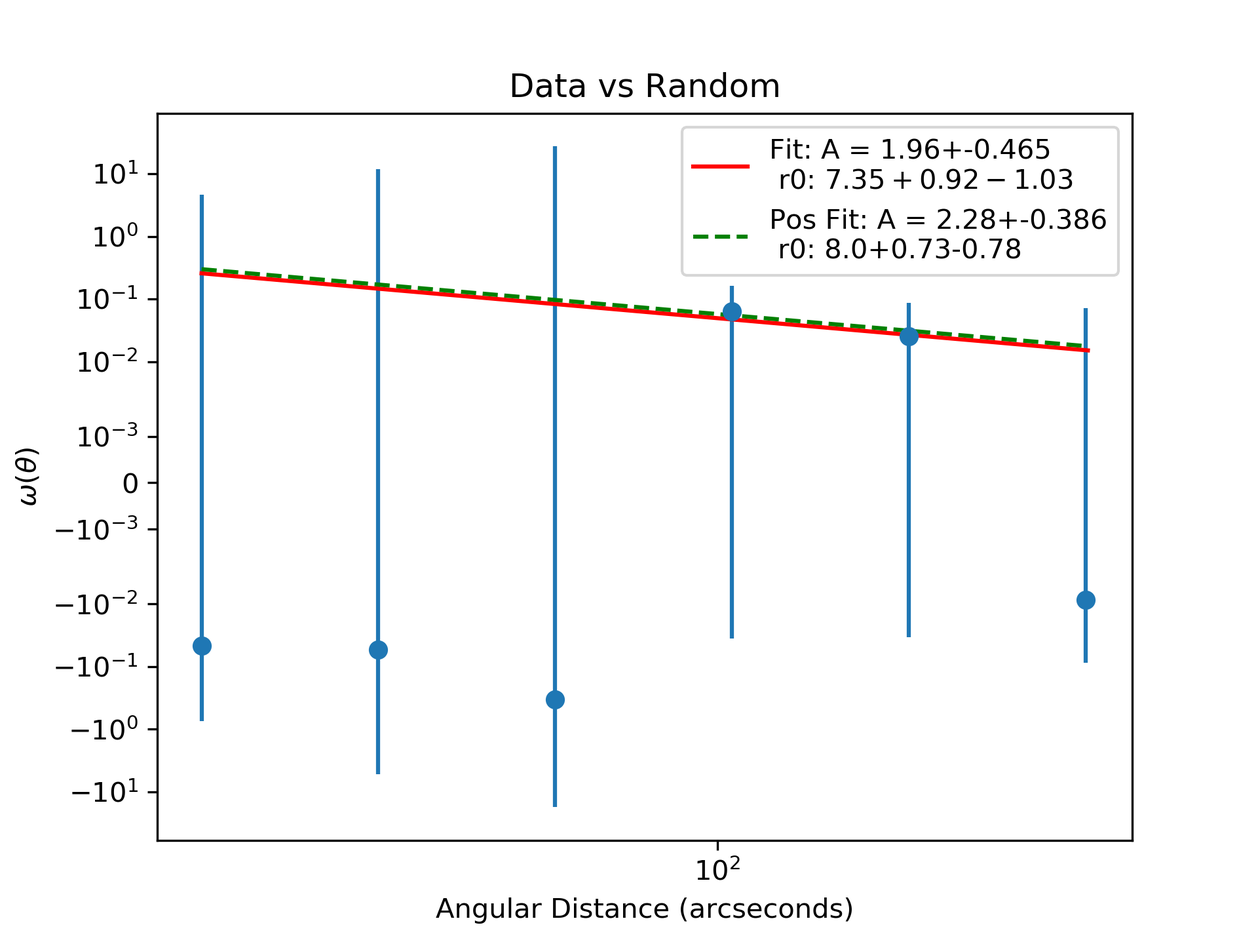
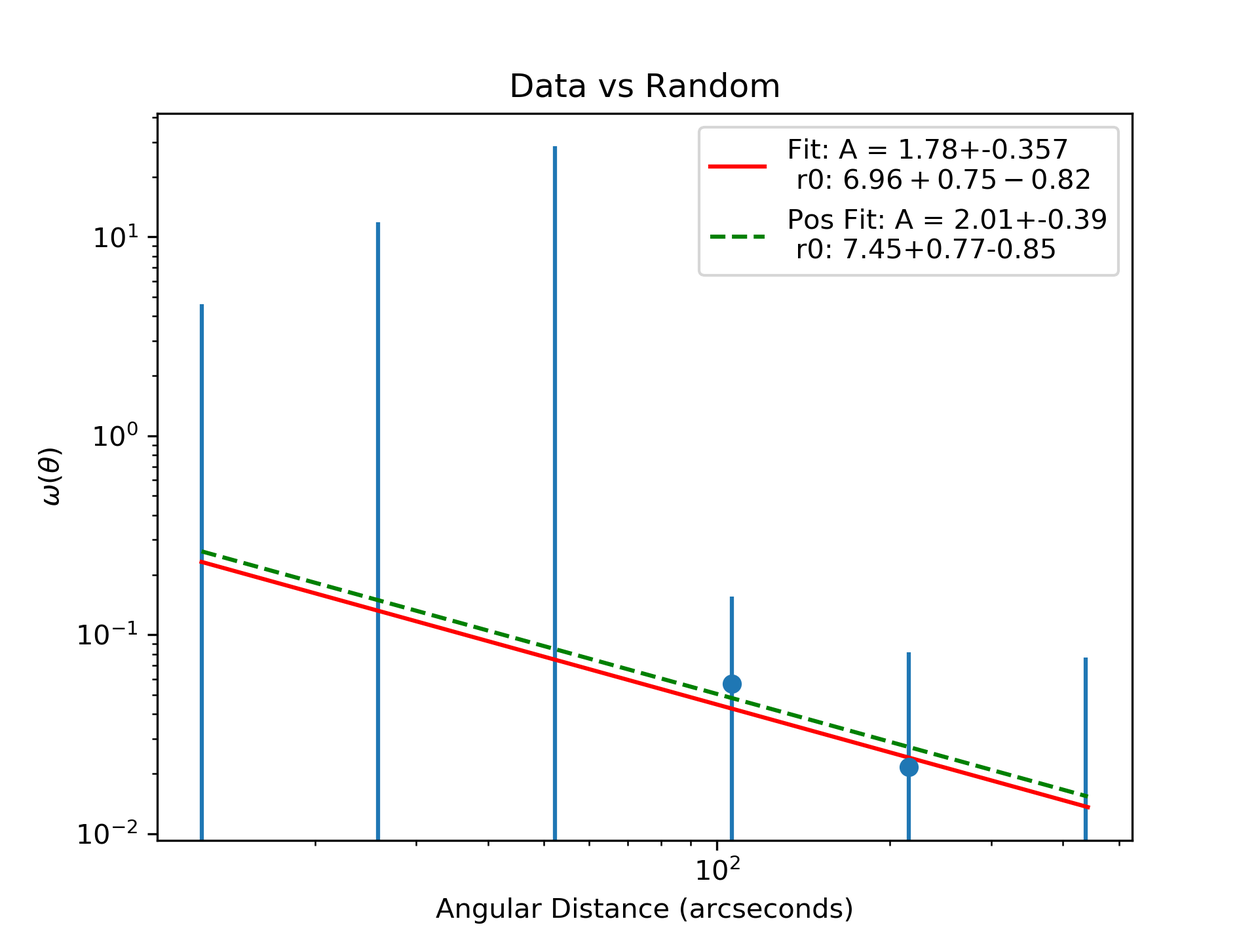
Final Draft Version 1
Actually complete parts, etc. Need to redo the CO line maps, but need to have the desktop finish downloading for now.

diff --git a/clustering.tex b/clustering.tex
@@ -2,9 +2,9 @@
 
 Galaxies are not distributed randomly in the universe. On the largest scales, the universe is isotropic and homogeneous, but on smaller scales, galaxies tend to cluster in space. One way to quantify how densely packed a population of galaxies is to compute the so-called two-point correlation function. This allows for the measuring of the mass of the dark matter halos in which these galaxies reside \cite{hickox2011clustering}. For a certain redshift, the more clustered a population of galaxies is, the more massive the halo that they are in.
 
-The clustering of different populations of galaxies has been constrained by previous works, which some are summarized in Fig. \ref{fig:Hickox_compare}, where the correlation length parameter, r0, which is a proxy for the amplitude of the clustering, is shown as a function of redshift for different populations. For example, \cite{hickox2011clustering} looked at the clustering of unobscured quasars and obscured quasars. \cite{10.1111/j.1365-2966.2011.20303.x} looks at the clustering in SMGs and compares their clustering to clustering found for other sets of astronomical objects, as can be seen in Fig. \ref{fig:Hickox_compare}. \cite{hickox2011clustering} found, in the Bo\"otes field, an $r_0$ for unobscured quasars to be $5.6 \pm 0.8$ at 0$<$z$<$1, and for obscured quasars $6.0 \pm 1.0 $. In \cite{10.1111/j.1365-2966.2011.20303.x}, SMGs in the Extended Chandra Deep Field South were found to have a $r_0$ of $7.7_{-2.3}^{+1.8}$.
+The clustering of different populations of galaxies has been constrained by previous works, which some are summarized in Fig. \ref{fig:Hickox_compare}, where the correlation length parameter, $r_0$, which is a proxy for the amplitude of the clustering, is shown as a function of redshift for different populations. For example, \cite{hickox2011clustering} looked at the clustering of unobscured quasars and obscured quasars. \cite{10.1111/j.1365-2966.2011.20303.x} looks at the clustering in SMGs and compares their clustering to clustering found for other sets of astronomical objects, as can be seen in Fig. \ref{fig:Hickox_compare}. \cite{hickox2011clustering} found, in the Bo\"otes field, an $r_0$ for unobscured quasars to be $5.6 \pm 0.8$ at 0$<$z$<$1, and for obscured quasars $6.0 \pm 1.0 $. In \cite{10.1111/j.1365-2966.2011.20303.x}, submillimeter galaxies (SMGs) in the Extended Chandra Deep Field South were found to have a $r_0$ of $7.7_{-2.3}^{+1.8}$ at a 1$<$z$<$3. Other sources, such as \cite{adelberger2005spatial}, found for Lyman Break Galaxies (LBGs) $r_0$ values of $4.5 \pm 0.6$ at $z = 1.7$, $4.2 \pm 0.5$ at $z = 2.2$, and $4.0 \pm 0.6$ at $z = 2.9$, while \cite{ross2009clustering} found, for quasars in the Sload Digital Sky Survey, an $r_0 = 5.45_{-0.45}^{+0.35}$ for z$\leq$2.2, both shown in Fig. \ref{fig:Hickox_compare}. 
 
-\begin{figure}[!htb]
+\begin{figure}[!htbp]
 \centering \includegraphics[width=87mm]{clustering/Hickox2012_Compare.png}
 \caption{$r_0$ values for a variety of celestial objects as a function of redshift. The grey dotted lines show the evolution of $r_0$ for dark matter haloes of different masses. Figure adapted from \cite{10.1111/j.1365-2966.2011.20303.x}.}
 \label{fig:Hickox_compare}
@@ -24,7 +24,7 @@ The clustering is computed through a two point correlation function. The two-poi
 In order to check our code for the clustering computation, we created 2 additional random catalogs, of 20000 points each, and their angular correlation computed to show that it is consistent with zero, shown in Fig.\ref{fig:random_points}. The error bars for $\omega(\theta)$ are computed using possion errors for small statistics \cite{1986ApJ...303..336G}.
 
 \begin{figure}[!htbp]
-\centering \includegraphics[width=100mm]{clustering/Random_vs_Random_2000_bin9.png}
+\centering \includegraphics[width=100mm]{clustering/5Random_vs_Random_10000_bin9.png}
 \caption{Angular correlation two sets of random points used in this analysis, showing that the angular correlation is consistent with zero, as would be expected for cross-correlating two sets of uniformly distributed points. The red line shows $\omega(\theta) = 0$.}
 \label{fig:random_points}
 \end{figure}
@@ -36,14 +36,6 @@ In order to check our code for the clustering computation, we created 2 addition
 \centering \includegraphics[width=120mm]{PDFS/NX_V_Y_Sources_20000.png}
 \caption{Random points, in grey, and sources, in blue, from the $>$ 0.6 fidelity cut. The random points are distributed uniformly throughout the Wide ASPECS footprint.}
 \label{fig:Clustering_points}
-\end{figure}
-
-\begin{figure}[!htbp]
-% explain how bins can be negative and what this means for fitting only positive bins
-% Bins can be negative through.... 0, so not negative I guess? 
-\centering \includegraphics[width=90mm]{clustering_two/Data_vs_Random_10000_bin6_sn0_6_NFalse.png}
-\caption{Angular correlation function for 6 bins for the chosen fidelity cut of 0.6. Red is the fit $\omega(\theta) = A\theta^{-0.8}$ to all the bins, while the green line is the fit to only the positive bins. This is the final binning used for the analysis. }
-\label{fig:Angular_binnings}
 \end{figure}
 
 %4. Then put what you wrote: Once the angular correlation function is found...angular correlations [7].
@@ -62,49 +54,56 @@ $$ \gamma = \beta + 1 $$ and $$ A = H_{\gamma}\frac{\int_{0}^{\inf} (dN_1/dz)(dN
 where $H_{\gamma} = \Gamma(0.5)\Gamma(0.5[\gamma -1])\Gamma(0.5\gamma)$, with $\Gamma$ being the gamma function, $\chi$ the radial comoving distance, $dN_{1,2}/dz$ are the redshift distributions of the samples, where in the case of autocorrelation are equal to each other, and $E_z = H_z/c = dz/d\chi$ \cite{hickox2011clustering}. The Hubble parameter $H_z$ can be found from
 $$H_z^2 = H_0^2[\Omega_m(1+z)^3 + \Omega_{\lambda}]$$ \cite{hickox2011clustering}.
 
-For this analysis, the redshift distribution was taken from the CO redshifts of the lines, and the calculations were performed over the range z = 1.5 to 3.5, as this is the range where most of the CO candidates seem to lie. To calculate $dN_{1,2}/dz$, the redshift distribution of the CO lines was fitted with a Gaussian, and the integral was taken over the Gaussian fit. The angular correlation function was computed over the range of 8.39 to 582.10 arcseconds, using logarithmically spaced bins. Because there are only 35 line candidates in the catalog, the clustering measurements are quite noisy. The final calculated values are $r_0 = 7.22_{-0.9}^{+0.83}$, and $\gamma = 1.8$. 
+For this analysis, the redshift distribution was taken from the CO redshifts of the lines, and the calculations were performed over the range z = 1.5 to 3.5, as this is the range where most of the CO candidates seem to lie. To calculate $dN_{1,2}/dz$, the redshift distribution of the CO lines was fitted with a Gaussian, and the integral was taken over the Gaussian fit. The angular correlation function was computed over the range of 8.39 to 582.10 arcseconds, using logarithmically spaced bins. Because there are only 35 line candidates in the catalog, the clustering measurements are quite noisy. The final calculated values are $r_0 = 6.96_{-0.82}^{+0.75}$, and $\gamma = 1.8$. 
 
-\begin{figure}[!tbp]
+\begin{figure}[!htbp]
 % explain how bins can be negative and what this means for fitting only positive bins
 % Bins can be negative through.... 0, so not negative I guess? 
-\centering \includegraphics[width=90mm]{clustering_two/Data_vs_Random_10000_bin6_sn0_6_NFalse.png}
-\caption{Angular correlation function for 6 bins for the chosen fidelity cut of 0.6. Red is the fit $\omega(\theta) = A\theta^{-0.8}$ to all the bins, while the green line is the fit to only the positive bins. This is the final binning used for the analysis. }
+\centering \includegraphics[width=90mm]{clustering_two/Data_vs_Random_20000_bin6_sn0_6_NFalse.png}
+\caption{Angular correlation function for 6 bins for the chosen fidelity cut of 0.6. Red is the fit $\omega(\theta) = A\theta^{-0.8}$ to all the bins, while the green line is the fit to only bins with positive values. This is the final binning used for the analysis. }
 \label{fig:Angular_binnings}
 \end{figure}
-
 %6. Then put a discussion section, and comment about if the r0 values that you got is higher or lower to other populations (as you can see in Fig. 3.1). Then say that you did the same procedure for other fidelity cuts to compare, and show your 4panel plot and comment about the fact that signal goes up with fidelity.
 
 \section{Discussion}
 
-In comparison to previous results, the $r_0$ of the CO emitters here are quite similar to the values for the SMGs found in \cite{10.1111/j.1365-2966.2011.20303.x}.
+In comparison to previous results, the $r_0$ of the CO emitters here are quite similar to the values for the SMGs found in \cite{10.1111/j.1365-2966.2011.20303.x}, and quasars in the Bo\"otes field \cite{hickox2011clustering}, while being slightly more clustered than the quasars found in \cite{ross2009clustering}. In comparison to other populations of celestial objects shown in Fig. \ref{fig:Hickox_compare}, the clustering for CO emitters seems to be stronger than for the Lyman Break Galaxies in \cite{adelberger2005spatial}, which covers the same redshift range of 1.5$<$z$<$3.5. This implies that the dark matter halos surrounding these CO emitters would be in the range very roughly between $10^{12} h^{-1}M_{\odot}$ and $10^{13} h^{-1}M_{\odot}$.
 
 % Add more about the effects of binning, negative/0 values 
 
-The two point correlation function was also computed for other fidelity cuts. As can be seen in Fig. \ref{fig:Angular_correlation}, as the fidelity increases, $A$ increases as well. When converted to $r_0$, the fidelity cuts result in $r_0$ values of $7.89_{-7.89}^{+5.83}$ for fidelity $>$ 0.7, $7.22_{-0.9}^{+0.83}$ for fidelity $>$ 0.6, $0.0_{-0.0}^{+4.03}$ for fidelity $>$ 0.5, and $r_0 = 0.0_{-0.0}^{+0.0}$ for fidelity $>$ 0.4, as the $A$ value is always negative. 
+The two point correlation function was also computed for other fidelity cuts. As can be seen in Fig. \ref{fig:Angular_correlation}, as the fidelity increases, $A$ increases as well. When converted to $r_0$, the fidelity cuts result in $r_0$ values of $7.8_{-7.8}^{+5.78}$ for fidelity $>$ 0.7, $6.96_{-0.82}^{+0.74}$ for fidelity $>$ 0.6, $0.0_{-0.0}^{+4.32}$ for fidelity $>$ 0.5, and $r_0 = 0.0_{-0.0}^{+3.83}$ for fidelity $>$ 0.4. This increasing $r_0$ as the fidelity increases suggests that there are real sources in the sample.
 
-Besides the different fidelity cuts, different distance binnings also are included to study their effects on the final $r_0$ results. The results seem to be very dependent on the binning. While the values for the only positively fitted bins does not change dramatically as the binning changes, the number of bins does make a large difference in the final $A$, and therefore $r_0$ values, as can be seen in Figures \ref{fig:Angular_bin_8} and \ref{fig:Angular_bin_5} in comparison to Fig. \ref{fig:Angular_binnings}.
-
-These results do show that there is a larger $r_0$ as the fidelity cut becomes higher, suggesting that there are real sources in the sample. On the other hand, the clustering measurement is still very noisy and future work will be required to get a better final clustering measurement.
-
-% Random points: 582.10 arcseconds, DD points, 516 arcseconds
-
-\begin{figure}[tbp]
-% Expand axis to show bottom of points, need to show fit for the red values
+\begin{figure}[!htbp]
 % Use Symlog to plot it then, will keep negative values and such
-\centering \includegraphics[width=120mm]{clustering_two/Log_4Panel_Data_Vs_Random_bin6_NFalse_Num10000.png}
+\centering \includegraphics[width=160mm]{clustering_two/Log_4Panel_Data_Vs_Random_bin6_NFalse_Num20000.png}
 \caption{Angular correlation function for various fidelity cuts. The bins increase logarithmically from 8.39 arcsecs to 582.10 arcseconds. The red lines are from fitting $\omega(\theta) = A\theta^{-0.8} $ to all of the bins. The green dashed line is from fitting that same equation only to bins that had a positive value. The yellow dashed line is the fit from the fidelity $>$ 0.4 catalog. As the fidelity goes up, the $A$ value increases as well, indicating stronger clustering. The few line candidates means that the results are quite noisy, and are sensitive to the bins chosen.}
 \label{fig:Angular_correlation}
 \end{figure}
 
-\begin{figure}[!tbp]
-\centering \includegraphics[width=90mm]{clustering_two/Data_vs_Random_10000_bin8_sn0_6_NFalse.png}
-\caption{Angular correlation function for 8 bins  for fidelity $>$ 0.6. In this case, an increase in the number of bins decreases the $r_0$ value, although it is still consistent with the original $r_0$ value.}
+%\begin{figure}[!htbp]
+% Use Symlog to plot it then, will keep negative values and such
+%\centering \includegraphics[width=160mm]{clustering_two/4Panel_Data_Vs_Random_bin6_NFalse_Num20000.png}
+%\caption{Angular correlation function for various fidelity cuts. The bins increase logarithmically from 8.39 arcsecs to 582.10 arcseconds. The red lines are from fitting $\omega(\theta) = A\theta^{-0.8} $ to all of the bins. The green dashed line is from fitting that same equation only to bins that had a positive value. The yellow dashed line is the fit from the fidelity $>$ 0.4 catalog. As the fidelity goes up, the $A$ value increases as well, indicating stronger clustering. The few line candidates means that the results are quite noisy, and are sensitive to the bins chosen.}
+%\label{fig:Angular_correlation_linear}
+%\end{figure}
+
+Besides the different fidelity cuts, different distance binnings also are included to study their effects on the final $r_0$ results. The results seem to be very dependent on the binning. While the values for the only positively fitted bins does not change dramatically as the binning changes, the number of bins does make a large difference in the final $A$, and therefore $r_0$ values, as can be seen in Figures \ref{fig:Angular_bin_8} and \ref{fig:Angular_bin_5} in comparison to Fig. \ref{fig:Angular_binnings}. The range in the $r_0$ values underlines how the low statistics available makes the clustering measurement very noisy, although all the $r_0$ values for the fidelity $>$ 0.6 sample are consistent with each other. 
+
+\begin{figure}[!htbp]
+\centering \includegraphics[width=90mm]{clustering_two/Data_vs_Random_20000_bin8_sn0_6_NFalse.png}
+\caption{Angular correlation function for 8 bins  for fidelity $>$ 0.6. In this case, an increase in the number of bins decreases the $r_0$ value, although it is still consistent with the original $r_0$ value from \ref{fig:Angular_binnings}.}
 \label{fig:Angular_bin_8}
 \end{figure}
 
-\begin{figure}[!tbp]
-\centering \includegraphics[width=90mm]{clustering_two/Data_vs_Random_10000_bin5_sn0_6_NFalse.png}
-\caption{Angular correlation function for 5 bins for fidelity $>$ 0.6. In this case, decreasing the number of bins also decreases the $r_0$ value, which are not consistent with the $r_0$ found originally.}
+\begin{figure}[!htbp]
+\centering \includegraphics[width=90mm]{clustering_two/Data_vs_Random_20000_bin10_sn0_6_NFalse.png}
+\caption{Angular correlation function for 10 bins for fidelity $>$ 0.6. In this case, further increasing the number of bins also decreases the $r_0$ value, which is still consistent with the $r_0$ found in \ref{fig:Angular_binnings}. This could be a result of the very low statistics and so extremely noisy measurements.}
 \label{fig:Angular_bin_5}
 \end{figure}
+
+The existence of negative values in the correlation function means that there are fewer numbers of data-data pairs in that bin compared with expectation, which could happen when a field is underdense. However, in that case, we would expect that all the points would be systematically negative, so in this case it is most likely related with the extremely high noise in the measurement. This could explain why, as the number of bins is increased, $r_0$ continues to decrease. 
+
+These results do show that there is a larger $r_0$ as the fidelity cut becomes higher, suggesting that there are real sources in the sample. On the other hand, the clustering measurement is still very noisy and future work will be required to get a better final clustering measurement.
+
+% Random points: 582.10 arcseconds, DD points, 516 arcseconds
 

diff --git a/survey.tex b/survey.tex
@@ -11,7 +11,7 @@ The data for this survey was observed in ALMA Cycle 5 and was observed in Band 3
 
 \begin{figure}[!htbp]
 \centering \includegraphics[width=120mm]{Wide_ASPECS_Coverage.png}
-\caption{Spatial coverage of ASPECS Pilot (Green), Large Program (White), and Wide (Yellow) showing each of the individual pointings. The area covered by the Pilot is $~$1 arcmin$^2$, by the Large Program $~$5 arcmin$^2$, and by Wide ASPECS, $~$52.5 armin$^2$. The cyan box is the 50\% sensitivity extent of the survey. This region covers the area of the deepest CANDELS observations, where a wealth of ancillary data has been collected in over 30 photometric bands. Figure adapted from Decarlie et al. (in prep.)} % Decarli in report
+\caption{Spatial coverage of ASPECS Pilot (Green), Large Program (White), and Wide (Yellow) showing each of the individual pointings. The area covered by the Pilot is $~$1 arcmin$^2$, by the Large Program $~$5 arcmin$^2$, and by Wide ASPECS, $~$52.5 armin$^2$. The cyan box is the 50\% sensitivity extent of the survey. This region covers the area of the deepest CANDELS observations, where a wealth of ancillary data has been collected in over 30 photometric bands. Figure adapted from Decarli et al. (in prep.)} % Decarli in report
 % Put this in the Wide ASPECS description stuff
 \label{fig:ASPECS_Coverage}
 \end{figure}
@@ -19,7 +19,7 @@ The data for this survey was observed in ALMA Cycle 5 and was observed in Band 3
 \begin{figure}[!htbp]
 \centering
 \includegraphics[width=120mm]{Wide_ASPECS_Freq.png}
-\caption{Spectral and redshift coverage of Wide ASPECS in relation to the redshift distribution of galaxies within the survey field. Wide ASPECS is designed to detect CO line transitions at z$<$0.4, 1.1 $<$ z $<$ 1.8, and 2.2 $<$ z $<$ 4.4. Green, red, and yellow are the frequency ranges for A, B, and C frequency settings respectively. Figure adapted from Decarlie et al. (in prep.)}
+\caption{Spectral and redshift coverage of Wide ASPECS in relation to the redshift distribution of galaxies within the survey field. Wide ASPECS is designed to detect CO line transitions at z$<$0.4, 1.1 $<$ z $<$ 1.8, and 2.2 $<$ z $<$ 4.4. Green, red, and yellow are the frequency ranges for A, B, and C frequency settings respectively. Figure adapted from Decarli et al. (in prep.)}
 \label{fig:ASPECS_Freq}
 \end{figure}
 
@@ -67,7 +67,7 @@ An example output from MAGPHYS is shown in Fig. \ref{fig:MAGPHYS_Example}, showi
 \begin{figure}[!hbp]
 % Make Larger
 \centering \includegraphics[width=160mm]{19265.pdf}
-\caption{Example MAGPHYS output, from the most massive matched galaxy, ID.9 in Table \ref{table:Catalog}. The blue line is the spectrum of the galaxy without attenuation. The black line is the model used by MAGPHYS. The red dots are the data points. The bottom row of graphs show the probability distribution for various physical properties.}
+\caption{Example MAGPHYS output, from the most massive matched galaxy, ID.1 in Table \ref{table:Catalog}. The blue line is the spectrum of the galaxy without attenuation. The black line is the model used by MAGPHYS. The red dots are the data points. The bottom row of graphs show the probability distribution for various physical properties.}
 \label{fig:MAGPHYS_Example}
 \end{figure}
 
@@ -130,7 +130,7 @@ To determine the redshift of the CO emitters, we need to know the transition of 
 
 % And then explain what procedure you follow to determine the redshift, i.e first you look for a counterpart in the galaxy catalog (explain how as you already stated in the text and mention that it also will provide information about the physical parameters of the candidate). Mention how many counterparts you found and refer to table 2.3. Put the information that you wrote in your current section 2.4.1. Also provide the images of the cross-matched galaxies (choose an optical image and plot the countours of the CO detection over it, I think you already did these images). And maybe mention that you will discuss some explanation for the low number of counterparts found in section 2.5.
 
-Once the lines have been found, and the fidelity computed, the next step is to cross-match the CO lines to already known galaxies within the Wide ASPECS footprint. To do this, the spatial location of the line candidates were matched to galaxies that were within one arcsecond of the line candidate's location. Then, assuming that the CO line is from that matched galaxy, the CO transition was calculated. The match was only kept if the offset between the CO line's redshift and the galaxy's redshift, $\delta z$, was ($|\delta z| < 0.01$) for galaxies with spectroscopic redshifts, or ($|\delta z| < 0.3$) for ones with photometric redshifts. The differences in $|\delta z|$ thresholds is because spectroscopic redshifts are much more reliable and precise than photometric redshifts. 
+To determine the transition, and therefore the redshift, the next step after performing the line search and fidelity cut is to cross-match the CO lines to already known galaxies within the Wide ASPECS footprint. To do this, the spatial location of the line candidates were matched to galaxies that were within one arcsecond of the line candidate's location. Then, assuming that the CO line is from that matched galaxy, the CO transition was calculated. The match was only kept if the offset between the CO line's redshift and the galaxy's redshift, $\delta z$, was ($|\delta z| < 0.01$) for galaxies with spectroscopic redshifts, or ($|\delta z| < 0.3$) for ones with photometric redshifts. The differences in $|\delta z|$ thresholds is because spectroscopic redshifts are much more reliable and precise than photometric redshifts. 
 
 If a line matches to more than a single galaxy, then the following steps are performed to differentiate which galaxy the line should be matched to. The first step is to calculate the CO transition for the line assuming the line is matched to each of the galaxies. Once that is determined, the difference in redshift between the CO redshift and the galaxy's redshift is calculated. The matched galaxy that gives the smallest $|\delta z|$, and whose redshift falls within the limits of Wide ASPECS, is then saved as the matched galaxy for that line candidate. 
 
@@ -204,7 +204,7 @@ ID.35 & 53.14828 & -27.84444 & 87.302 & 3-2 & 2.961 & -- & 6.1 & N \\
 \end{tabular}
 \end{table}\label{table:Catalog}
 
-\section{Physical properties of the CO emitters}
+\section{Physical Properties of the CO emitters}
 
 The stellar mass versus star formation rate is shown for the general galactic population and the 3 ASPECS counterparts in Fig. \ref{fig:Cross_match}. For comparison, the Schreiber et al. 2015 \cite{schreiber2015herschel} and Whitaker et al. 2014 \cite{Whitaker_2014} main sequence fits are plotted as well. As can be seen, two of the matched galaxies are above the main sequence and are massive, star-forming galaxies that are the expected type of galaxies for this survey to match to. The other galaxy is much less massive than expected. 
 
@@ -240,13 +240,13 @@ ID.9 & 3-2 & 2.309 & 2.39 & 0.081 & N & 6.43 & 0.4861 & $1.307_{-0.0}^{+0.0}$ & 
 
 \section{Discussion}
 
-Of the 35 line candidates chosen for the final catalog, only $\sim$9\% percent of the lines match to galaxies. Of those that do, only two matched to the most massive, most star forming galaxies in the field.
+Of the 35 line candidates chosen for the final catalog, only $\sim$9\% percent of the lines match to galaxies. Of those that do, only two matched to the most massive, most star forming galaxies in the field. %Expanding the matching radius to 1.5 arcseconds does \textbf{INCREASE NUMBER OF MATCHES TO WHAT?}
 
 % Software based explanations
 
 Possible explanations include issues with MAGPHYS' fitting of the galaxies in the catalog, as many of the galaxies seem poorly constrained. The errors in imprecise photometric redshifts could effect the estimation of the physical parameters, potentially explaining why one of the counterparts was not at the more massive end of the mass versus star formation rate plot. The only counterpart with a spectroscopic redshift, ID.1's match, is also the counterpart with the highest stellar mass and star formation rate, and the type of counterpart that was expected to be found in this survey.
 
-Using a lower fidelity cut, such as a cut of $>$ 0.4, does not change the counterparts being unexpectedly composed primarily of lower stellar mass and star forming galaxies, as seen in Fig. \ref{fig:fid_40_cross}. 
+Using a lower fidelity cut, such as a cut of $>$ 0.4, does not change the counterparts being unexpectedly composed primarily of lower stellar mass and star forming galaxies, as seen in Fig. \ref{fig:fid_40_cross}. In fact, essentially all the extra matches from using a lower fidelity cut come from the galaxies that are the least massive and least star forming in the field, suggesting that those matches might be spurious.
 
 \begin{figure}[!htbp]
 % What sample is this? Explain where these 3 matched sources come from when you were talking about 35 above and clarify in the legend that they are all ASPECS matches
@@ -257,7 +257,7 @@ Using a lower fidelity cut, such as a cut of $>$ 0.4, does not change the counte
 
 % Physics based explanations
 
-Other possible explanations include that the CO emitting galaxies are very dusty and optically dark, and so have not shown up in shorter wavelengths. Previous ASPECS surveys have found CO candidates without any obvious match to a previously known galaxy, same with the PdBI survey and COLDz. This potentially means that these CO lines without matches are too obscured in other wavelengths to have been detected before. 
+Other possible explanations include that the CO emitting galaxies are very dusty and optically dark, and so have not shown up in shorter wavelengths. Previous ASPECS surveys have found CO candidates without any obvious match to a previously known galaxy, same with the PdBI survey and COLDz \cite{decarli2014molecular, pavesi2018co}. This potentially means that these CO lines without matches are too obscured in other wavelengths to have been detected before. As can be seen in \ref{sec:A1}, a significant number of the CO line candidates that do not match to a counterpart seem to exist in area of the sky with very little or no other objects visible around them in optical wavelengths. 
 
 %Try to expand a bit more this, you can also make some comments about the plot for the section fidelity cut that I suggested.
 

diff --git a/minimal.tex b/minimal.tex
@@ -5,13 +5,14 @@
 \usepackage{tablefootnote}
 
 
-\title{Clustering and physical properties of CO emitters in Wide ASPECS}
+\title{Clustering and Physical Properties of CO Emitters in Wide ASPECS}
 \author{Jacob Bieker}
 \degree{Master of Science}   
 \major{Astronomy}
 \studentid{2153246}
-\supervisor{Dr. Rychard Bouwens (designated by J. Hodge)}
-\corrector{Prof. Paul van der Werf} 
+\supervisor{Dr. Jacqueline Hodge}
+\correctorone{Dr. Rychard Bouwens (designated by J. Hodge)}
+\correctortwo{Prof. Paul van der Werf} 
 
 \affiliation{Leiden Observatory, Leiden University} 
 \address{P.O. Box 9513, 2300 RA Leiden, The Netherlands} 
@@ -98,11 +99,11 @@ In this report, the $\Lambda$CDM cosmology is assumed, with $H_0$=70 km/s/Mpc, $
 
 \chapter{Conclusion}
 
-In this research, data from Wide ASPECS was used to find CO line candidates, determine their properties, and find their clustering bias. 
+In this research, data from Wide ASPECS was used to find CO line candidates, determine their properties, and find their clustering bias.
 
 A catalog of 35 line candidates was created. This catalog was cross-matched to a catalog of previous detected galaxies in the same area. A total of three counterparts were found, and their properties were compared to the population of galaxies in the catalog. Two of those counterparts are on, or slightly above, the main sequence, while one has a much smaller stellar mass and star formation rate than would be expected for this survey. The other 32 potential sources could be optically dark, gas-rich galaxies that have evaded detection until now. 
 
-Additionally, using the 35 CO lines in the catalog, the scale radius $r_0$ was computed and compared to other populations of galaxies. The scale radius seems to be similar to the $r_0$ of SMGs
+Additionally, using the 35 CO lines in the catalog, the scale radius $r_0$ was computed for 1.5$<$z$<$3.5, and compared to other populations of galaxies. The scale radius seems to be similar to the $r_0$ of submillimeter galaxies \cite{10.1111/j.1365-2966.2011.20303.x}, and quasars in the Bo\"otes field \cite{hickox2011clustering}, while being larger than for Lyman break galaxies \cite{adelberger2005spatial}. While the extremely high noise in the measurement limits the constraints on the dark matter halos surrounding these CO emitters, a very loose estimate on the halo masses places them between $10^{12} h^{-1}M_{\odot}$ and $10^{13} h^{-1}M_{\odot}$.
 
 % People will ask you if you tried to repeat your experiment by adopting priors in your line candidate selection. E.g., if you require that lines have an IRAC counterpart or a MUSE counterpart, you significantly drop the number of independent elements (and thus, the noise), which results in a superior fidelity. However, the drawback is that you introduce a selection function that you will have to account for in your clustering analysis. I suggest to add a few lines on this.
 
@@ -113,6 +114,8 @@ While these results are interesting, they are quite tentative. The clustering re
 Additional work could be done to verify the CO lines matched to galaxies, and investigate the reasons as to why the matched galaxies are much less massive and star forming than expected.
 
 Priors could also be adopted for the line candidate search. For example, requiring lines have an IRAC or MUSE counterpart would reduce the number of independent elements, and therefore the noise, resulting in a higher fidelity. A drawback is that then the search is not a blind search, and the selection function would have to be accounted for in the clustering analysis.
+
+Building off these results, more work could add constraints to the bright end of the CO luminosity function, as well as the contribution of luminous CO emitters to the cosmic density of molecular gas in galaxies, $\rho(H_2)$.
 
 \appendix
 \input{appendix.tex}

diff --git a/appendix.tex b/appendix.tex
@@ -1,6 +1,6 @@
 \chapter{Appendix}
 
-\section{Line Candidates}\label{sec:A1}
+\section{Line Candidate Cutouts}\label{sec:A1}
 
 The following plots show the 35 CO line candidates in various wavelengths. The red contours show the +2$\sigma$,4$\sigma$,6$\sigma$,and 8$\sigma$ values in the datacubes. All cutouts are 3x3 arcseconds in size.
 
